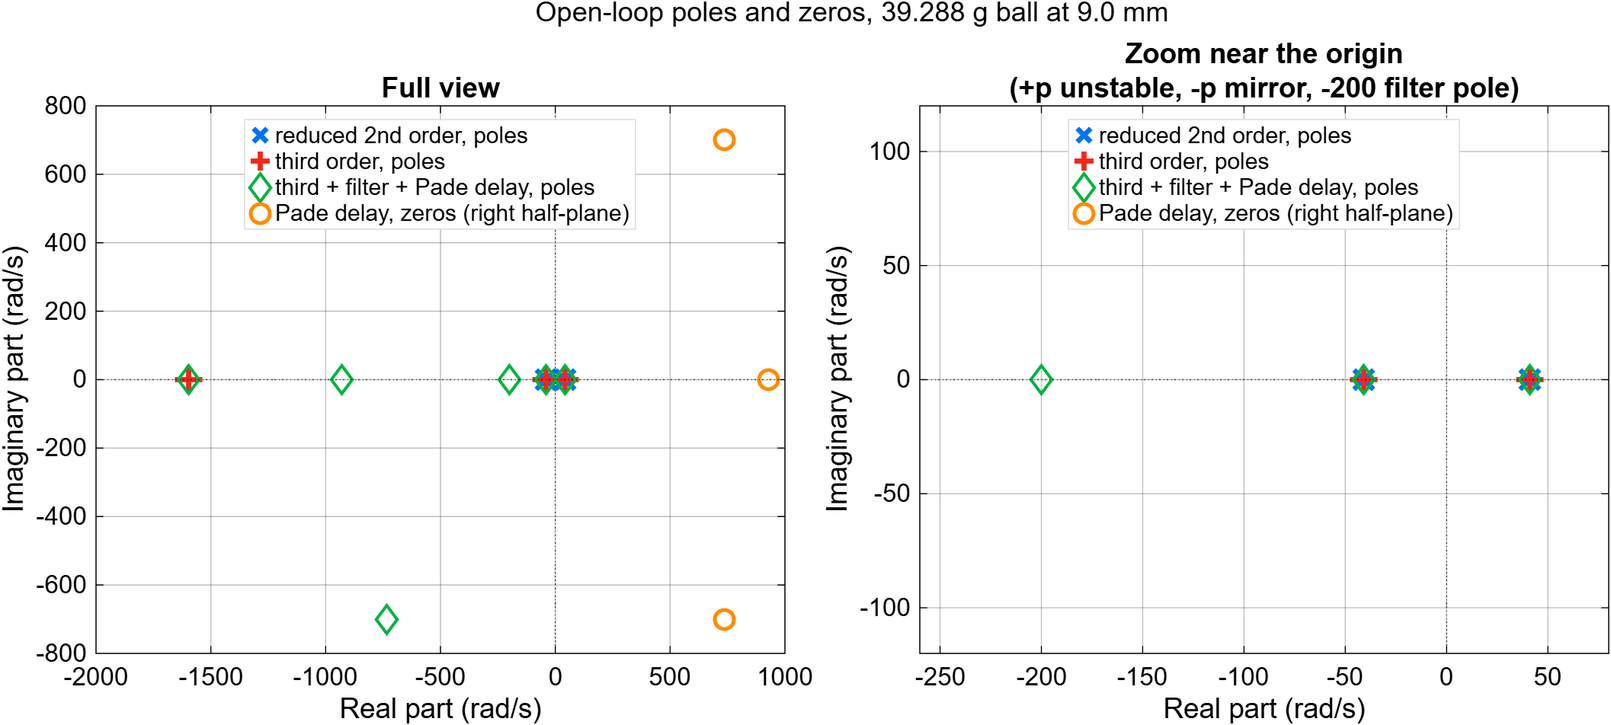
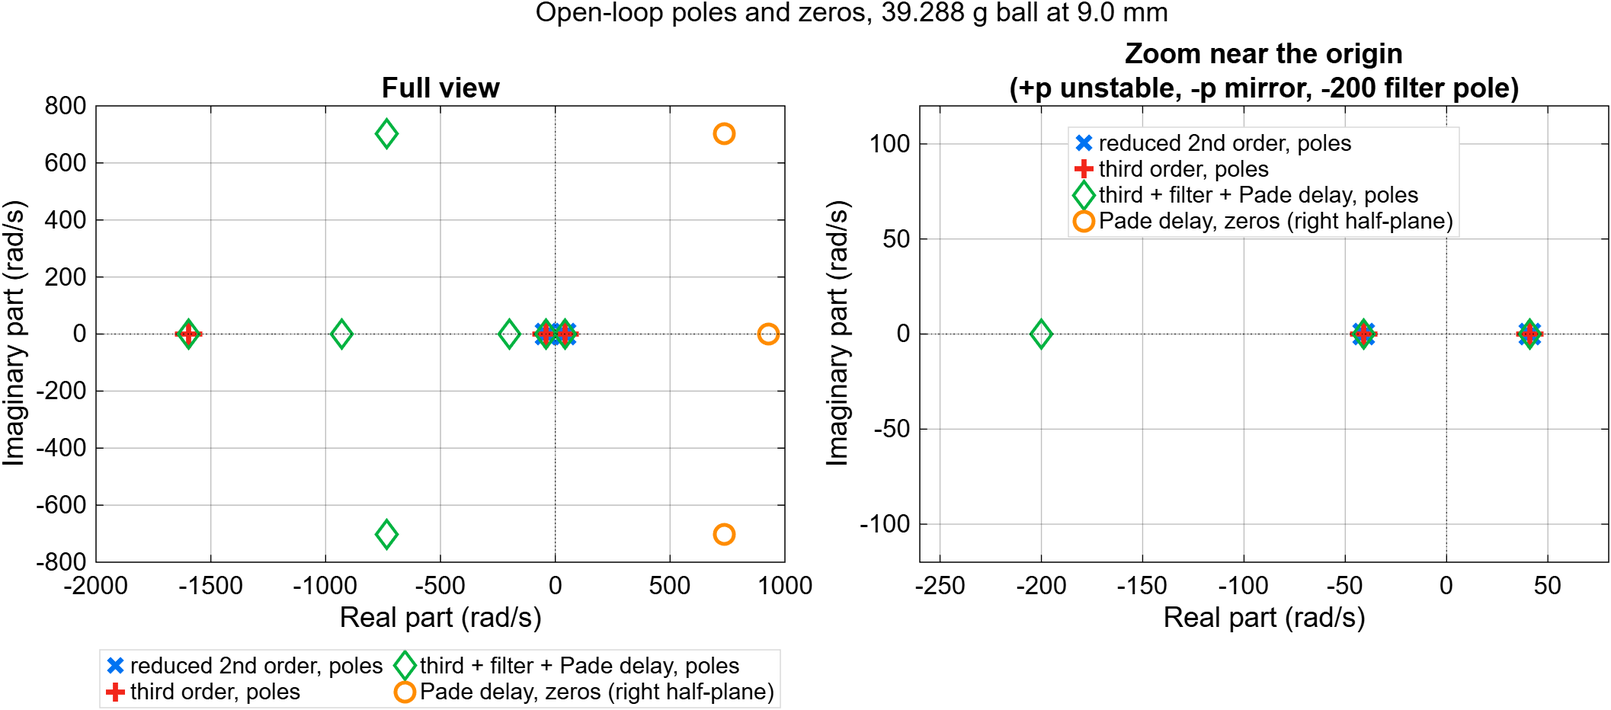
Step 9: remaining stale text and figures (audit 1.17, 2.21, 3.6, 4.6, 4.7, 4.9, 5.5, 5.30)
- s13: H-force marked rejected, spike stand-tied, summary rewritten, [record]
  labels (numbers unchanged; overshoot_mismatch.mat identical).
- 13-Nov README s13 paragraphs annotated; s12 header; s05 withdrawn-premise notes
  (phase3_cascade.mat identical); models/README lab-model caveats.
- Figures: p2_polemap legend below the axes, p12 and p15 label overlaps fixed.
- FIXPLAN: step 9 done + handoff note for the report.

diff --git a/scripts/s13_overshoot_mismatch.m b/scripts/s13_overshoot_mismatch.m
@@ -25,6 +25,13 @@
 %           up / held) more than the current explains. Section 4 checks the sign on a control step.
 % NOTE      Simulations use the measured loop delay d = 0.5 sample (s12); s08 used d = 0, so the
 %           model overshoots here differ slightly from the s08 table.
+% REVISED   2026-11-16 (AUDIT.md 4.6-4.9), text only; every number unchanged. The 16-Nov lab session answered
+%           this script's open questions: (a) the braking spike is STAND-TIED (0.67-0.89 mm above the stand on
+%           both stand heights, s16/s17), so section 4's "position and timing not separable" is superseded;
+%           (b) H-force (section 5) is REJECTED: with the stand lowered the same ball hovers at 11.5 mm on the
+%           force law within ~1 %, so the 11.5 mm hold deficit belongs to the stand. Section 6 is rewritten.
+%           See data/lab_2026-11-16/README.md, 'Stand-proximity effect'. "[record]" checks state a result;
+%           they are counted but cannot fail in a meaningful way.
 % =========================================================================
 clear; clc;
 here = fileparts(mfilename('fullpath'));
@@ -91,11 +98,11 @@ modDn = arrayfun(@(e) mean(osM0(down & at(e))), [9.5 10 10.5 11]);
 fprintf(' rms(lab - model), all 24 steps: %.2f mm; without the 3 steps ending at 11 mm: %.2f mm\n', ...
         rms(ST(:,4) - osM0), rms(ST(~(down & at(11)), 4) - osM0(~(down & at(11)))));
 c = all(diff(labDn) < 0) && modDn(end) > modDn(1);
-chkp(c, sprintf(['record: lab down-step overshoot FALLS with the end gap (%.2f -> %.2f mm) while the model''s ' ...
+chkp(c, sprintf(['[record] lab down-step overshoot FALLS with the end gap (%.2f -> %.2f mm) while the model''s ' ...
      'RISES (%.2f -> %.2f mm)'], labDn(1), labDn(end), modDn(1), modDn(end)));  nP = nP + c;  nF = nF + ~c;
 s11 = down & at(11);
 c = all(ST(s11,4) < 0.55*osM0(s11));
-chkp(c, sprintf('record: on the 10.5 -> 11 mm steps the lab overshoot is about half the model''s or less in all 3 runs (%s vs %s mm, ratio %s)', ...
+chkp(c, sprintf('[record] on the 10.5 -> 11 mm steps the lab overshoot is about half the model''s or less in all 3 runs (%s vs %s mm, ratio %s)', ...
      mat2str(round(ST(s11,4)', 2)), mat2str(round(osM0(s11)', 2)), mat2str(round(ST(s11,4)'./osM0(s11)', 2))));  nP = nP + c;  nF = nF + ~c;
 
 %% ---- 2. H-lin --------------------------------------------------------------
@@ -207,13 +214,16 @@ fprintf(' 42 g roll (0.6-2.6 s after lift): %d fast downward passes of 11 mm, mi
         numel(zc), min(rr(nearZ & wR)));
 fprintf('   also %.0f %% of the time AWAY from them -> the roll cannot separate position from timing.\n', 100*fracBig);
 c = fracBig > 0.05;
-chkp(c, sprintf(['record: position (x = 11.0 mm) and timing (~35 ms after a step from 10.5 mm) are NOT separable ' ...
-     'with these data (roll residual large everywhere: %.0f %% of the time < -2 m/s^2)'], 100*fracBig));  nP = nP + c;  nF = nF + ~c;
+chkp(c, sprintf(['[record] position (x = 11.0 mm) and timing (~35 ms after a step from 10.5 mm) are NOT separable ' ...
+     'with these data (roll residual large everywhere: %.0f %% of the time < -2 m/s^2); SUPERSEDED 2026-11-16: the ' ...
+     'spike is stand-tied (s16/s17)'], 100*fracBig));  nP = nP + c;  nF = nF + ~c;
 fprintf(['  (Only the TABLE kinks are excluded; a sensor feature finer than the table, e.g. a local flat spot,\n' ...
          '   is not excluded by size: the raw reading reverses 0.08 mm within 12 ms at ~11.1 mm.)\n']);
 
 %% ---- 5. H-force: force decays more slowly than exp(-x/lam) beyond 11 mm -------
 fprintf('\n==== 5. H-force: weaker decay of the magnet force beyond 11 mm ====\n');
+fprintf([' (SUPERSEDED 2026-11-16: H-force REJECTED. With the stand lowered the same ball hovers at 11.5 mm on the\n' ...
+         '  force law within ~1 %%; the hold deficit below belongs to the stand. Kept for the record.)\n']);
 fprintf(' 5a. static estimate: the 11.5 mm holds\n');
 % the 11.5 mm holds (s08 table HD, column 7 = drift-corrected true current)
 hm = [m39 m42 m39];  hb = [1 2 1];  hn = {'39 g hole-up', '42 g hole-up', '39 g hole-down'};
@@ -246,7 +256,8 @@ c = all(all(fxZ(:, 1:3) > 1.03));
 chkp(c, sprintf('hold evidence robust to the plausible current zeros (x%.3f-%.3f; only a zero of 0 A, never observed, removes it)', ...
      min(min(fxZ(:,1:3))), max(max(fxZ(:,1:3)))));  nP = nP + c;  nF = nF + ~c;
 c = all(fx115 > 1.03);
-chkp(c, sprintf('5a static: hovering at 11.5 mm needs x%.2f-%.2f the force exp(-x/lam) extrapolates', min(fx115), max(fx115)));
+chkp(c, sprintf(['5a static: hovering at 11.5 mm, 0.43 mm above the normal stand, needs x%.2f-%.2f the force exp(-x/lam) ' ...
+     'extrapolates (2026-11-16: a stand effect, not the force law)'], min(fx115), max(fx115)));
 nP = nP + c;  nF = nF + ~c;
 
 % 5b. dynamic estimate (added 2026-11-15 on the student's request to refine the fit). In every lift-off the
@@ -281,7 +292,7 @@ fprintf('   current-to-force lag check: slope of fx on (di/dt)/i at 9.5-10.75 mm
 c = abs(lagSlope) < 3;
 chkp(c, sprintf('5b method: no detectable lag between measured current and force (slope %+.1f ms)', lagSlope));  nP = nP + c;  nF = nF + ~c;
 c = all(mRel + 2*seRel < min(fx115));
-chkp(c, sprintf(['record: CONFLICT. Lift-offs passing 11.4-11.8 mm show NO stronger force (x%.2f / x%.2f vs own ' ...
+chkp(c, sprintf(['[record] CONFLICT. Lift-offs passing 11.4-11.8 mm show NO stronger force (x%.2f / x%.2f vs own ' ...
      'baseline), the holds at 11.5 mm need x%.2f-%.2f -> H-force is NOT confirmed'], mRel, min(fx115), max(fx115)));
 nP = nP + c;  nF = nF + ~c;
 fprintf(['   (The pooled 11.0-11.3 mm bin is not used: per lift-off it ranges %.2f-%.2f, and it mixes the passage\n' ...
@@ -319,26 +330,17 @@ nP = nP + c;  nF = nF + ~c;
 fprintf('\n==== 6. Summary of hypotheses ====\n');
 fprintf('  H-lin    linearization                         REJECTED (s10)\n');
 fprintf('  H-table  calibration-table kinks               REJECTED (<= %.2f m/s^2 vs a %.1f m/s^2 spike at h = 5)\n', aKink, min(abs(NS(s11,1))));
-fprintf(['  H-force  force decays slower beyond 11 mm      UNRESOLVED: holds say x%.2f-%.2f at 11.5 mm, lift-offs say\n' ...
-         '           none (x%.2f); if true it would explain ~%.0f %% of the 10.5 -> 11 gap. Lab test e (slow ramp) decides.\n'], ...
-        min(fx115), max(fx115), mRel(1), 100*(1 - gap11(2)/gap11(1)));
-fprintf(['  OPEN     braking spike on the 10.5 -> 11 steps  at x = 10.9-11.0 mm AND ~35 ms after the step (the two are\n' ...
-         '           confounded); absent on steps that stay below 10.8 mm. Candidates (not separable here):\n' ...
-         '             (i)  the ball touches / is braked by something near 11 mm (e.g. the stand rod or nut)\n' ...
-         '             (ii) a sensor feature finer than the 0.7 mm table (e.g. a flat spot of the light-curtain curve)\n' ...
-         '             (iii) the ball tilts (it rocks at ~2.4 Hz at 11.5 mm; Newton slope 1.7 there, s08)\n']);
-fprintf(['  LAB TEST (wish-list item 1, extended), ~30 min:\n' ...
-         '    a. look at the stand: rod tip / nut height vs the ball at 11 mm (photo with a ruler)\n' ...
-         '    b. static sensor check: ball on the stand, raise it in ~0.1-0.2 mm steps 10.2 -> 12.6 mm\n' ...
-         '       (count turns of the nut), log V and x -> a flat spot near 11 mm = (ii)\n' ...
-         '    c. lower the stand ~1 mm and repeat the sweep + 11.5 mm hold: if the spike moves with the\n' ...
-         '       stand = (i); if it stays at 11.0 mm = (ii) or (iii)\n' ...
-         '    d. small steps 10.8 -> 11.1 and 10.6 -> 11.0 mm (keep steps <= 0.5 mm: the stand is at ~11.9 mm);\n' ...
-         '       they pass 11.0 mm at a different time after the step\n' ...
-         '       -> spike stays at 11.0 mm = position-tied; stays at ~35 ms = timing/dynamics\n' ...
-         '    e. slow set-point ramp 10.5 -> 11.6 -> 10.5 mm (~0.2 mm/s): hysteresis between up and down\n' ...
-         '       = contact/friction (i); a smooth current-vs-x curve gives H-force directly\n' ...
-         '    f. open the driver''s Position scaling block on the lab PC: confirm linear interpolation (manual Fig. 8)\n']);
+fprintf(['  H-force  force decays slower beyond 11 mm      REJECTED 2026-11-16: with the stand lowered the same ball\n' ...
+         '           hovers at 11.5 mm on the force law within ~1 %%; the x%.2f-%.2f of the 13-Nov holds (0.43 mm above\n' ...
+         '           the stand) belongs to the stand. The ~%.0f %% "explained" of 5c must not be used.\n'], ...
+        min(fx115), max(fx115), 100*(1 - gap11(2)/gap11(1)));
+fprintf(['  SPIKE    braking spike on the 10.5 -> 11 steps  STAND-TIED (2026-11-16, s16/s17): 0.67-0.89 mm above the\n' ...
+         '           stand on both stand heights; gone when the same step stays > 0.9 mm above a lowered stand.\n' ...
+         '           Not a calibration-table feature (it moves with the stand), not contact/friction (no up/down\n' ...
+         '           hysteresis on the slow ramp, s18). Part of a stand-proximity effect whose mechanism is open:\n' ...
+         '           data/lab_2026-11-16/README.md, ''Stand-proximity effect''.\n']);
+fprintf(['  LAB TESTS a-f proposed here were run on 2026-11-16 (b, the static sensor sweep, was dropped; f confirmed\n' ...
+         '           linear interpolation from the saved lab models).\n']);
 
 %% ---- 7. figure -------------------------------------------------------------------
 col = P.plot.colors;
@@ -354,7 +356,7 @@ plot(ax, eg, labDn, '-', 'Color', col(1,:), 'LineWidth', 2.5);
 plot(ax, eg, modDn, '-s', 'Color', col(2,:), 'LineWidth', 2);
 plot(ax, eg, arrayfun(@(e) mean(osMF(down & at(e))), eg), '--d', 'Color', col(3,:), 'LineWidth', 2);
 xlabel(ax, 'end gap of the down-step [mm]');  ylabel(ax, 'overshoot [mm]');
-legend(ax, 'lab (dots: 3 runs, line: mean)', sprintf('model (d = %.1f)', dLoop), 'model + H-force (IF true; unresolved)', 'Location', 'southwest');
+legend(ax, 'lab (dots: 3 runs, line: mean)', sprintf('model (d = %.1f)', dLoop), 'model + H-force (rejected 2026-11-16)', 'Location', 'southwest');
 title(ax, '(a) Down-step overshoot: lab falls with gap, model does not', 'Color', 'k');
 % (b), (c) measured vs current-implied acceleration, 39 g run, control step and 10.5 -> 11 step
 r = R{1};

diff --git a/scripts/s05_cascade_design.m b/scripts/s05_cascade_design.m
@@ -63,6 +63,9 @@ fprintf('Force decay length: manual P2 = %.2f mm, lab data need lam > %.2f mm\n'
         1e3*P.Fem.P2, 1e3*lamMin);
 fprintf('  -> manual model is %s with the lift data (one-sided bound, 2 points only)\n', ...
         ternary(P.Fem.P2 > lamMin, 'consistent', 'INCONSISTENT'));
+fprintf(['  [SUPERSEDED 2026-11-13: lift thresholds from the stand are not an equilibrium, so this bound is void; the\n' ...
+         '   hover fits give lam ~5.9 mm, consistent with the manual (data/README.md). The lift-off sims below and\n' ...
+         '   figs/p3_liftoff_sim.png use force constants built on this premise: pre-lab design check only.]\n']);
 
 % Hover current at 10 mm for a force law that lifts at 12.9 mm with ~0.90 A:
 %   i0(10 mm) = 0.90*exp(-(12.9-10) mm / (2 lam))
@@ -125,7 +128,8 @@ fprintf('NOTE: with +1 sample the worst Ms is %.2f: stable but fragile, so re-ch
 rhoW = cascade_loop(C, L.T0, L.tau, L.ka, L.ka, a21n, bn, 0, -1);
 chk(rhoW > 1, sprintf('WRONG sign (all gains negated) is unstable (max|eig| = %.2f)', rhoW));
 rhoPD = pd_only_loop(45, 450, L.T0, L.tau, L.ka, a21n, bn);
-chk(rhoPD > 1, sprintf('lab x-only PD (Kp 45, Kd_raw 450) is unstable with tau = 27 ms (max|eig| = %.3f), as observed in run 4', rhoPD));
+chk(rhoPD > 1, sprintf(['lab x-only PD (Kp 45, Kd_raw 450) is unstable with tau = 27 ms (max|eig| = %.3f; linear model, ' ...
+     'manual force law; the 7-9 Hz of run 4 was a nonlinear cycle, see WHY)'], rhoPD));
 
 %% ---- 4. nonlinear lift-off simulation (ball starts on the stand) -------
 % Plan used in the lab: stand at 12 mm, set point 11 mm at start, 10 mm at t = 1.5 s.
@@ -177,7 +181,8 @@ set(ax(1), 'YDir', 'reverse');
 ylabel(ax(1), 'gap x [mm]');  ylabel(ax(2), 'current i [A]');  ylabel(ax(3), 'command u [-]');
 xlabel(ax(3), 'time [s]');
 legend(ax(1), [{cases.name}, {'set point'}], 'Location', 'southeast');
-title(ax(1), 'Cascade controller: nonlinear lift-off from the 12 mm stand', 'Color', 'k');
+title(ax(1), {'Cascade controller: nonlinear lift-off from the 12 mm stand', ...
+       '(PRE-LAB check; force constants from a withdrawn premise, see s05 section 0)'}, 'Color', 'k');
 title(ax(2), 'Coil current', 'Color', 'k');  title(ax(3), 'Command (PWM duty)', 'Color', 'k');
 exportgraphics(f1, fullfile(P.dir.figs, 'p3_liftoff_sim.png'), 'Resolution', P.plot.res, 'BackgroundColor', 'w');
 

diff --git a/scripts/s18_analyze_D_ramp.m b/scripts/s18_analyze_D_ramp.m
@@ -186,13 +186,15 @@ xlabel(ax, 'time after switch-on [s]');  ylabel(ax, 'gap x [mm]');
 legend(ax, [arrayfun(@(k) sprintf('variant D, lift %d', k), 1:numel(kUp), 'UniformOutput', false), {'lab controller (3 runs)'}], 'Location', 'southeast');
 title(ax, 'lift-off: variant D vs lab controller', 'Color', 'k');
 ax = nexttile(tl);  hold(ax, 'on');
-plot(ax, t, iref, 'Color', [0.9 0.2 0.1]);  plot(ax, t, 0.5*runS + 0.5, 'k');  yline(ax, iExp, ':', 'expected (reset)');
+hI = plot(ax, t, iref, 'Color', [0.9 0.2 0.1]);  hR = plot(ax, t, 0.5*runS + 0.5, 'k');
+hE = yline(ax, iExp, '--', 'Color', [0 0.45 0.9], 'LineWidth', 1.5);
+legend(ax, [hI hR hE], 'i_{ref}', 'run (0.5 = off, 1 = on)', 'expected i_{ref}, integral reset', 'Location', 'north');
 xlabel(ax, 't [s]');  ylabel(ax, 'i_{ref} [A]');  title(ax, 'variant D: i_{ref} and run (scaled)', 'Color', 'k');  ylim(ax, [0.4 1.3]);
 ax = nexttile(tl);  hold(ax, 'on');
 errorbar(ax, gap, 1e3*res, 1e3*se, 'o-', 'Color', [0.9 0.2 0.1], 'MarkerFaceColor', [0.9 0.2 0.1]);
-xline(ax, [0.70 0.85], ':', 'Color', [0.2 0.6 0.2]);  xline(ax, 0.95, '--', 'fit range \geq', 'Color', 'k');  yline(ax, 0, 'k:');
+xline(ax, [0.70 0.85], ':', 'Color', [0.2 0.6 0.2]);  xline(ax, 0.95, '--', 'fit range \geq', 'Color', 'k', 'LabelVerticalAlignment', 'bottom');  yline(ax, 0, 'k:');
 set(ax, 'XDir', 'reverse');  xlabel(ax, 'set point above the stand [mm]');  ylabel(ax, 'current residual [mA]');
-title(ax, 'slow ramp: departure from the force law near the stand', 'Color', 'k');
+title(ax, 'slow ramp: residual vs the force law', 'Color', 'k');
 exportgraphics(fg, fullfile(P.dir.figs, 'p15_variantD_ramp.png'), 'BackgroundColor', 'w');  close(fg);
 fprintf('\nFigure: figs/p15_variantD_ramp.png\n');
 fprintf('==== s18 summary: %d PASS / %d FAIL ====\n', nP, nF);

diff --git a/scripts/s16_analyze_3a.m b/scripts/s16_analyze_3a.m
@@ -179,7 +179,7 @@ for q = 1:2, r = R{q};
     plot(ax, r.t(on), 1e3*r.x(on), 'Color', [0 0.45 0.9]);  plot(ax, r.t(on), 1e3*r.xr(on), 'Color', [0.9 0.2 0.1], 'LineWidth', 1.5);
     yline(ax, 1e3*r.xRest, '--', 'stand', 'Color', [0.2 0.6 0.2]);  set(ax, 'YDir', 'reverse');
     ylim(ax, [8.5 12.2]);  xlabel(ax, 't [s]');  ylabel(ax, 'gap x [mm] (magnet up)');
-    title(ax, sprintf('%s: x and x_{ref}', r.name), 'Color', 'k');  legend(ax, 'x', 'x_{ref}', 'Location', 'southeast');
+    title(ax, sprintf('%s: x and x_{ref}', r.name), 'Color', 'k');  legend(ax, 'x', 'x_{ref}', 'Location', 'northeast');
 end
 ax = nexttile(tl);  hold(ax, 'on');
 cols = lines(6);
@@ -197,7 +197,8 @@ for k = find(dn)'
     plot(ax, NS(k,2), NS(k,1), mk, 'MarkerSize', 9, 'MarkerFaceColor', [0.9 0.2 0.1]*sp(k) + [0.6 0.6 0.6]*~sp(k), 'Color', 'k');
     text(ax, NS(k,2) + 2, NS(k,1), sprintf('%.1f\\rightarrow%.1f, x %.2f', ST(k,2:3), NS(k,3)), 'FontSize', 8);
 end
-yline(ax, 1.5*min(NS(up,1)), '--', 'spike threshold', 'Color', 'k');
+yline(ax, 1.5*min(NS(up,1)), '--', 'spike threshold', 'Color', 'k', 'LabelVerticalAlignment', 'bottom', ...
+      'LabelHorizontalAlignment', 'center');
 xlabel(ax, 'time of the most negative r after the step [ms]');  ylabel(ax, 'most negative r [m/s^2]');
 title(ax, 'Down-steps: braking spike, when and where (red = spike)', 'Color', 'k');
 exportgraphics(fg, fullfile(P.dir.figs, 'p12_3a_steps.png'), 'BackgroundColor', 'w');

diff --git a/scripts/s12_delay_estimate.m b/scripts/s12_delay_estimate.m
@@ -2,7 +2,8 @@
 % =========================================================================
 % PURPOSE   Estimate the loop delay beyond the normal one-sample ZOH step from data we already have.
 %           Until now it was carried as "0 or +1 sample (not observable)". It matters: with +1 sample the
-%           robust-stability test fails and the worst Ms is 5.0 (s11).
+%           loop is much more fragile (nominal Ms 2.41 at d = 1, s11; an older s11 grid at +1 sample gave a
+%           worst Ms of ~5, which the current s11 no longer computes).
 % DEFINITION The model (s05-s11): u[k] is computed from the samples at k and held over [k, k+1), so the
 %           current sampled at k+1 already responds to u[k]. An EXTRA delay of d samples (d may be
 %           fractional) holds u[k] over [k+d, k+1+d) instead. d = 0 is the model used so far; d = 1 is the

diff --git a/scripts/s02_plant_analysis.m b/scripts/s02_plant_analysis.m
@@ -187,7 +187,7 @@ for v = 1:2
         xlim([-260 80]); ylim([-120 120]);
         title({'Zoom near the origin', '(+p unstable, -p mirror, -200 filter pole)'}, 'Color', 'k');
     end
-    legend('Location', 'best');
+    if v == 1, legend('Location', 'southoutside', 'NumColumns', 2); else, legend('Location', 'best'); end   % (2026-11-16, AUDIT.md 1.17: full-view legend hid a pole)
 end
 
 %% 4. Figure 2: Bode of the sign-absorbed plant -G(s)

diff --git a/data/lab_2026-11-13/README.md b/data/lab_2026-11-13/README.md
@@ -94,7 +94,7 @@ three cascade models: Kp 151.2, Ki 734, Kd 2.6, Kc 2.05, i0 0.75 A, 1/ka = 1/2.4
 - **Steps, sim vs lab** (24 steps, morning-fitted plant, no re-tuning): overshoot rms difference 0.18 mm, settling median
   111 ms in both. Systematic: lab down-step overshoot FALLS as the gap grows (39 g: 0.63 → 0.56 → 0.49 → 0.32 mm for steps
   ending at 9.5 → 11 mm) while the sim's RISES (0.51 → 0.64). Largest gap on 10.5 → 11 mm (lab 0.25–0.32, sim 0.64–0.73);
-  the morning data show the same. Partly explained by s13 (2026-11-15), see below.
+  the morning data show the same. ~~Partly explained by s13 (2026-11-15), see below.~~ [2026-11-16: it goes with the stand-proximity effect, see `data/lab_2026-11-16/README.md`.]
 
 ## Down-step overshoot mismatch (s13, 2026-11-15; `scripts/s13_overshoot_mismatch.m` -> `figs/p10_overshoot_mismatch.png`, `data/overshoot_mismatch.mat`)
 - With the measured delay (d = 0.5) the model is within 0.10 mm rms on 21 of 24 steps; the misfit is the three
@@ -110,8 +110,11 @@ three cascade models: Kp 151.2, Ki 734, Kd 2.6, Kc 2.05, i0 0.75 A, 1/ka = 1/2.4
   Steps that stay below 10.8 mm show nothing like it (worst -0.97, median -0.65 m/s^2 at h = 5).
   CAVEAT (verification): position (x = 11.0 mm) and timing (~35 ms after the step) are confounded, because all three
   steps are identical; the 42 g roll's passes through 11 mm cannot separate them (its residual is < -2 m/s^2 25 % of
-  the time anyway).
-- H-force (force decays more slowly than exp(-x/lam) beyond 11 mm): UNRESOLVED, conflicting evidence.
+  the time anyway). **[Superseded 2026-11-16]** The small steps and the lowered stand separated them: the spike is
+  STAND-TIED (0.67–0.89 mm above the stand on both stand heights; s16, s17).
+- H-force (force decays more slowly than exp(-x/lam) beyond 11 mm): ~~UNRESOLVED, conflicting evidence.~~
+  **REJECTED 2026-11-16:** with the stand lowered the same ball hovers at 11.5 mm on the force law within ~1 %
+  (×1.011); the ×1.04–1.08 below belongs to the stand (AUDIT.md 4.7). Kept for the record:
   * Static: hovering at 11.5 mm needs x1.04-1.08 the extrapolated force (3 holds; robust to the current-sensor zero,
     x1.04-1.09 for every plausible zero).
   * Dynamic (refinement, 2026-11-15): Newton solved for the force in all 13 lift-offs. Relative to each lift-off's own
@@ -121,7 +124,9 @@ three cascade models: Kp 151.2, Ki 734, Kd 2.6, Kc 2.05, i0 0.75 A, 1/ka = 1/2.4
     (see "Findings (first levitation)" above), so they cannot bound the force law.
   * IF the holds are right (kf = 0.120 /mm vs the s07 plant), H-force halves the 10.5 -> 11 gap (0.42 -> 0.20 mm) and
     cuts rms(lab - model) 0.18 -> 0.11 mm. The slow ramp (lab test e) measures the quasi-static law directly.
-- OPEN: the braking spike. Candidates: contact/braking by something near 11 mm, a sensor feature finer than the
+    [Not applicable: H-force is rejected; do not use this "halves the gap" figure.]
+- **[Done 2026-11-16]** The lab tests below were run (except the static sensor sweep): the spike is stand-tied, see
+  the 16-Nov README. Original text: OPEN: the braking spike. Candidates: contact/braking by something near 11 mm, a sensor feature finer than the
   0.7 mm table, or ball tilt. Lab test (next slot, ~30 min): photo of stand vs ball at 11 mm; static sensor check
   10.2-12.6 mm in 0.1-0.2 mm steps; sweep with the stand lowered ~1 mm (spike moves with stand = contact); small steps
   10.8 -> 11.1 and 10.6 -> 11.0 mm (position vs timing; keep steps <= 0.5 mm, the stand is at ~11.9 mm); slow ramp

diff --git a/FIXPLAN.md b/FIXPLAN.md
@@ -20,7 +20,7 @@ Status legend: `[ ]` open, `[x]` done, `[~]` decided but waiting.
 | 6 | Re-run in dependency order, compare with expectations | [x] 2026-11-16 (all as expected; .mat contents checked vs baseline) |
 | 7 | README updates (robustness numbers, new counts) | [x] 2026-11-16 |
 | 8 | One value per quantity (text) | [x] 2026-11-16 (reference table in data/README.md) |
-| 9 | Remaining MINOR stale text and figures | [ ] |
+| 9 | Remaining MINOR stale text and figures | [x] 2026-11-16 |
 | 10 | Optional new analysis | [ ] |
 | — | Then write D6 (report) | [ ] |
 
@@ -242,7 +242,28 @@ Original plan:
 | Lift-off time | one definition ("x < rest − 0.2 mm") or name both |
 | Operating range | as in Step 3 |
 
-## Step 9 — Remaining MINOR stale text and figures
+## Step 9 — Remaining MINOR stale text and figures (DONE)
+
+Done 2026-11-16 (text and figure layout only; re-run: s02 39/39, s05 all PASS, s13 13/1, s16 9/2, s18 5/0;
+`phase3_cascade.mat` and `overshoot_mismatch.mat` identical; `phase2_results.mat` identical in every number and in
+`tests` — only anonymous function handles differ, which never compare equal after save/load):
+- s13: header REVISED note; §4 "not separable" and §5 H-force marked superseded; §6 summary rewritten (H-force
+  REJECTED, spike STAND-TIED); "[record]" labels; p10 legend. 13-Nov README s13 paragraphs struck/annotated.
+- s12 header "worst Ms 5.0" corrected; s05: λ > 8.25 mm printout and p3_liftoff_sim title marked pre-lab/withdrawn,
+  PD check message reworded; s02 pole-map legend moved below the axes (no pole hidden); p12 and p15 label overlaps
+  fixed; models/README: ramp116 still Flat, steps model first level 8 s, demo model saved with x_ref 11.5 mm.
+- Not done (not in this plan's list, low value): s07 settling-time "0 ms" display (2.23), s16 "POSITION-TIED"
+  message wording (5.7), s15 header note (5.3), data figure index (6A).
+
+## HANDOFF (for the report chat)
+Steps 0-9 done (git log). Use: `data/README.md` "Reference values for the report" (single values);
+13-Nov README "Robustness over the uncertainty set" (R4 claims and caveats); 16-Nov README "Stand-proximity effect"
+(R2 unmodelled; mechanism open); `AUDIT.md` 6C (claims) and 6D (unresolved items) — note 6C/6D predate these fixes:
+case counts are now 51 of 69 in the set (not 53 of 73), and both lowered-stand lift-offs are outside the simulated
+range. Figures safe to use: all regenerated ones; p3_liftoff_sim only as a labelled pre-lab check; p10 with its
+H-force curve labelled rejected. Step 10 (optional analysis) is still open.
+
+Original plan:
 
 - [ ] s13 §5–6 and 13-Nov README H-force paragraphs (4.6, 4.7); "Partly explained by s13"; `[record]` labels (4.9).
 - [ ] s12 header "worst Ms 5.0" (3.6); s02 PURPOSE (2) wording (1.16); file names (1.18).

diff --git a/models/README.md b/models/README.md
@@ -12,10 +12,10 @@ feed-forward 1/2.44, i_ref 0..2 A, u 0..0.9 (variant D differs, see below). e = 
 | `my_pd_rt.slx`, `my_pid_rt.slx` | INTECO PD / PID examples (copies, unmodified) | 2026-11-12 runs; base of the cascade models |
 | `my_cascade_rt.slx` | cascade controller, manual set point, test/run switch (i_test) | 2026-11-13 first levitation, Exp A/B |
 | `my_cascade_kg_rt.slx` | as `my_cascade_rt` + constant `kg` multiplying u before the limit | 2026-11-13 Exp C (actuator-gain test) |
-| `my_cascade_sweep_rt.slx` | gated sweep clock (tau counts while x < 11.5 mm) → lookup table 11→9→11 mm (Flat) + auto/manual switch | 2026-11-13 sweeps and holds, 2026-11-16 item 2. **Demo model** |
-| `my_cascade_steps_rt.slx` | sweep model with table 11.0→10.8→11.1→10.6→11.0→10.5→11.0 mm | 2026-11-16 item 3a |
+| `my_cascade_sweep_rt.slx` | gated sweep clock (tau counts while x < 11.5 mm) → lookup table 11→9→11 mm (Flat) + auto/manual switch | 2026-11-13 sweeps and holds, 2026-11-16 item 2. **Demo model.** Saved with the MANUAL x_ref = 11.5 mm (0.4 mm above the normal stand, the rocking height): set it to 10–11 mm before a demo |
+| `my_cascade_steps_rt.slx` | sweep model with table 11.0→10.8→11.1→10.6→11.0→10.5→11.0 mm (breakpoints [0 8 13 18 23 28 33] s of tau: first level 8 s, then 5 s each) | 2026-11-16 item 3a |
 | `my_cascade_ramp_rt.slx` | sweep model with table 11→10.5→10.5→11.4→10.5→10.5 mm, **Linear** (0.2 mm/s ramp) | 2026-11-16 item 3b (only the rebuilt run `ramp_39g` ramped) |
-| `my_cascade_ramp116_rt.slx` | ramp to 11.6 mm, lift threshold 12.0 mm (lowered stand only) | 2026-11-16 (ran Flat, see the data README) |
+| `my_cascade_ramp116_rt.slx` | ramp to 11.6 mm, lift threshold 12.0 mm (lowered stand only) | 2026-11-16 (ran Flat, see the data README). **Still saved with Flat interpolation**: set Linear, Save and Build before reusing it |
 | `my_cascade_sine_rt.slx` | `my_cascade_rt` + injection d_inj = A_inj sin(2π f_inj t) added to u before the limit; logs u_c, d_inj, f_inj, A_inj | 2026-11-16 item 4 |
 | `my_cascade_D_rt.slx` | **variant D**: i0 0.85 A, clamp ±0.45 A, integral held at 0 while `run` = 0 (Constant `run` → Switch; `run == 0` → level reset) | 2026-11-16 item 5. Save with `run` = 0 |
 | `group22_sensor.mat` | `SensorData` sensor calibration (33 points, 06-Nov-2026 export) used for every lab build | all lab models |

diff --git a/data/README.md b/data/README.md
@@ -50,5 +50,6 @@ The scripts load these by path, so they stay here.
 | `rocking.mat` | `s14_rocking.m` | 2.4 Hz rocking analysis |
 
 Note (2026-11-16): s14 was re-checked after the audit (stand-lowered hold, stand-spring and sensor-gain scans; 11/0).
-s13 still predates the stand-proximity finding in `lab_2026-11-16/README.md`: its H-force and "position vs timing"
-conclusions are superseded there (see `FIXPLAN.md` steps 9-10). `rocking.mat` gained `bLow`, `SP`, `SG`.
+s13's text was revised the same day (H-force rejected, spike stand-tied; numbers unchanged). Still open from s13:
+re-doing its lift-off force check binned by height above the stand (`FIXPLAN.md` step 10). `rocking.mat` gained
+`bLow`, `SP`, `SG`.
